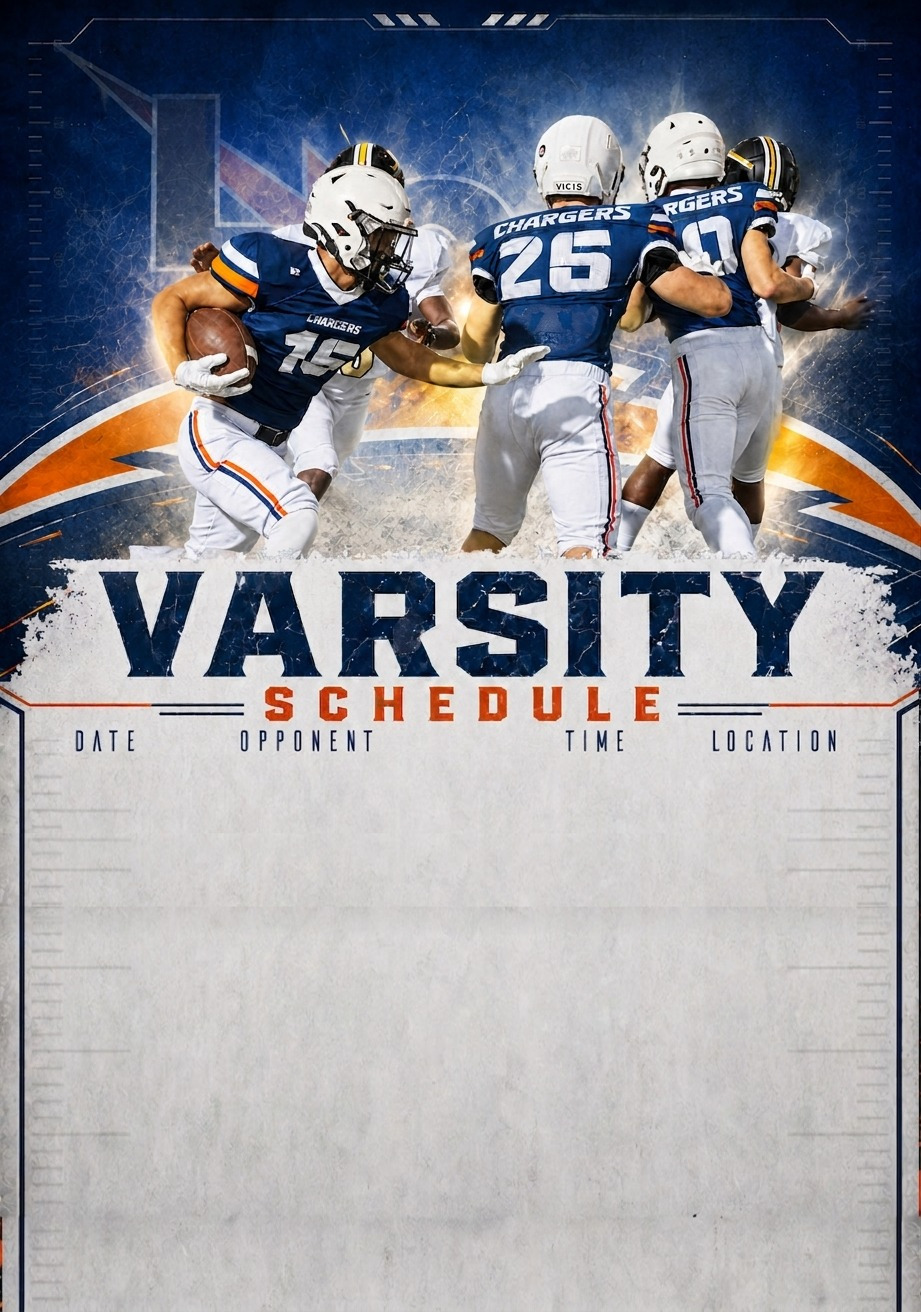
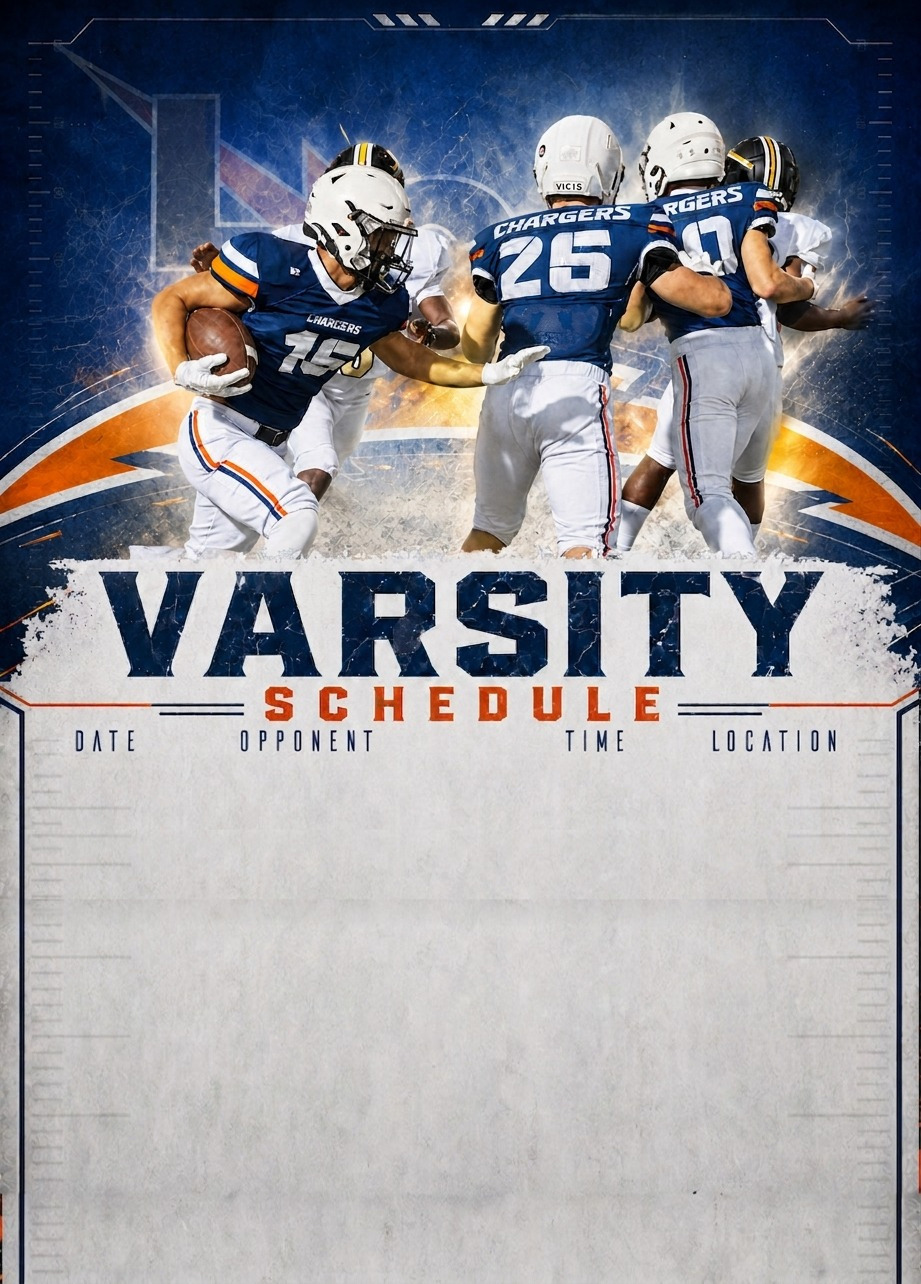
Resize all three backgrounds from real row counts, not by hand
v_bg.jpeg 1312->1284, jv_bg.jpeg 1287->1328, jh_bg.jpeg 1212->1226 -
each now sized by scripts/football/resize_schedule_bg.py (lcc_sportsengine
repo) to give ~17px of margin at the documented 320px worst case, driven
by each team's real row/divider count from the published schedules.json
instead of a hand-measured guess. Fixes the Varsity "too much empty
space" complaint (it had ~27px more margin than needed) and, more
importantly, fixes JV silently having almost no margin left (~3px) at
that same width after its postseason divider was added - nobody had
re-derived its height to account for that.

Claude-Session: https://claude.ai/code/session_01DU4s2fKT84GGohvFAb6zRm

diff --git a/css/football.css b/css/football.css
@@ -185,11 +185,10 @@
    BACKGROUND IMAGES GREW TALLER (requested directly - schedule
    rows were running past the image's own bottom edge once a
    season had enough games): v_bg.jpeg/jv_bg.jpeg/jh_bg.jpeg each
-   went from 921x1152 to a per-team row-capacity target, by tiling a
-   feathered strip of blank texture below the header art - the
-   photo/title/column-label art above that point is pixel-identical
-   to before, not stretched, so this is purely more room for rows,
-   never smaller text. Every top:/bottom: % below is relative to
+   went from 921x1152 to a per-team row-capacity target, by cropping
+   off the header art (photo/title/column-labels - pixel-identical
+   to before, never stretched) and stretching ONLY the blank schedule
+   area below it taller. Every top:/bottom: % below is relative to
    the WHOLE image's height, so each one was rescaled by
    1152/new_height to land on the exact same absolute pixel
    position as before within that untouched top art - a straight
@@ -199,45 +198,40 @@
    output instead, rescale its top/bottom by the same ratio first or
    the schedule grid will start too high again.
 
-   SIZING NOTE: zero row buffer - each image is sized to fit exactly
-   today's real row count, not a projected future count:
-     v_bg.jpeg:  921x1152 -> 921x1312 (+160px, 13 real Varsity rows - the
-                 last +100px added once Nov 7 came back as a real
-                 postseason game, by stretching the existing blank area
-                 taller rather than tiling a seam, so there's no repeat
-                 line in the paper texture)
-     jv_bg.jpeg: 921x1152 -> 921x1287 (+135px, 11 real JV rows)
-     jh_bg.jpeg: 921x1152 -> 921x1212 (+60px,  8 real JH rows, unchanged)
-   (Previously targeted 14/12/8 with headroom for more rows than
-   today's count - that left too much visible blank space in
-   production, per direct feedback, so dropped the headroom
-   entirely. The tradeoff: once a real schedule grows past today's
-   count - e.g. a playoff game added to Varsity - these need
-   re-sizing again, same process as before, or that one new row
-   clips again on narrow phones.) Even with zero row buffer, +60px
-   was still unavoidable on Varsity/JH: the ORIGINAL 1152px image
-   already clipped their current real row counts on narrow phones
-   (not desktop), so that's the floor, not a buffer.
-   Checked for clipping at exactly today's row counts across
-   viewport widths from 300px (narrow phones) up through 1440px
-   desktop - narrow phones are the real worst case here, not
-   desktop, because the image renders at a smaller CSS pixel width
-   there so the same row overflows into more natural image pixels.
-   ~16-18px of margin at the worst width tested (vw=300). If a
-   team's real row count changes again: crop the image at its own
-   top:/bottom: boundary (in pixels, from this file's current
-   numbers x image height) to split off the header art from the
-   blank schedule area, resize ONLY the blank part taller by the
-   extra_px needed, then re-stack them - this is what the last
-   Varsity resize did (no script currently in the repo for it) - and
-   rescale top:/bottom:/record top: here by old_height/new_height,
-   same as always. */
+   SIZING NOTE: each image's height is now COMPUTED from its team's
+   real row count (+ a postseason divider, if that team has one),
+   not hand-tuned and re-measured by eye every time a game is added -
+   that manual process got the margin wrong more than once (including
+   a round that left ~80px of dead space on narrow phones for one
+   team while another was down to ~3px of margin without anyone
+   noticing, since nothing forced the two to be re-derived together).
+   scripts/football/resize_schedule_bg.py (lcc_sportsengine repo) now
+   does this: it reads each team's real row/divider count straight
+   from the published schedules.json, solves for the natural image
+   height that gives ~17px of margin at the documented 300px-wide
+   worst case (narrow phones are the real worst case, not desktop -
+   the image renders at a smaller CSS pixel width there, so the same
+   row content overflows into more natural image pixels), and
+   rewrites the top:/bottom:/record-top: percentages below to match,
+   using the same "crop the header art, stretch only the blank area
+   below it" technique as every prior manual resize (so the header
+   art above that point stays pixel-identical, never stretched).
+   Current heights (re-run the script any time a row count or a
+   postseason cutoff changes - don't hand-edit these):
+     v_bg.jpeg:  921x1284  (13 Varsity rows + divider)
+     jv_bg.jpeg: 921x1328  (11 JV rows + divider)
+     jh_bg.jpeg: 921x1226  (8 JH rows, no divider)
+   If the header art itself ever changes (a new photo, retitled
+   banner, moved column headers), the script's hardcoded top_px/
+   bot_px/record_top_px per team need re-measuring from scratch first
+   (see schedule-css-tuner.html) - those are the one thing the script
+   assumes rather than derives, same as every resize before it. */
    /* Your Exact Varsity Placement Blueprint */
    .chargers-varsity-overlay {
      left: 7.5% !important;
      right: 3.5% !important;
-     top: 57.95% !important; /* 760px / 1312, preserved from 62.73% * 1212 - unchanged header art */
-     bottom: 1.76% !important; /* 23px / 1312, preserved from 1.90% * 1212 */
+     top: 59.23% !important; /* 761px / 1284, via resize_schedule_bg.py */
+     bottom: 1.8% !important; /* 23px / 1284, via resize_schedule_bg.py */
      font-size: clamp(7px, 1.25vw, 18px) !important;
      line-height: 1.6 !important;
    }
@@ -245,8 +239,8 @@
    .chargers-jv-overlay {
      left: 7.5% !important;
      right: -0.5% !important;
-     top: 65.34% !important; /* 73% * (1152/1287) */
-     bottom: 1.79% !important; /* 2% * (1152/1287) */
+     top: 63.32% !important; /* 841px / 1328, via resize_schedule_bg.py */
+     bottom: 1.73% !important; /* 23px / 1328, via resize_schedule_bg.py */
      font-size: clamp(8px, 1.45vw, 18px) !important;
      line-height: 1.5 !important;
    }
@@ -254,8 +248,8 @@
    .chargers-jh-overlay {
      left: 7.5% !important;
      right: -0.5% !important;
-     top: 69.39% !important; /* 73% * (1152/1212) */
-     bottom: 1.90% !important; /* 2% * (1152/1212) */
+     top: 68.6% !important; /* 841px / 1226, via resize_schedule_bg.py */
+     bottom: 1.88% !important; /* 23px / 1226, via resize_schedule_bg.py */
      font-size: clamp(8px, 1.45vw, 18px) !important;
      line-height: 1.7 !important;
    }
@@ -378,13 +372,13 @@
    re-deriving from the original 1152 measurement, same idea as the
    overlay top:/bottom: above.) */
 .chargers-record-varsity {
-  top: calc(41.51% - 1.02em) !important; /* 544.68px / 1312, preserved from 44.93% * 1212 */
+  top: calc(42.42% - 1.02em) !important; /* 545px / 1284, via resize_schedule_bg.py */
 }
 .chargers-record-jv {
-  top: calc(48.40% - 1.02em) !important; /* (0.565 - 0.0243) * (1152/1287) */
+  top: calc(46.91% - 1.02em) !important; /* 623px / 1328, via resize_schedule_bg.py */
 }
 .chargers-record-jh {
-  top: calc(51.11% - 1.02em) !important; /* (0.562 - 0.0243) * (1152/1212) */
+  top: calc(50.53% - 1.02em) !important; /* 619px / 1226, via resize_schedule_bg.py */
 }
 .chargers-record-varsity,
 .chargers-record-jv,
